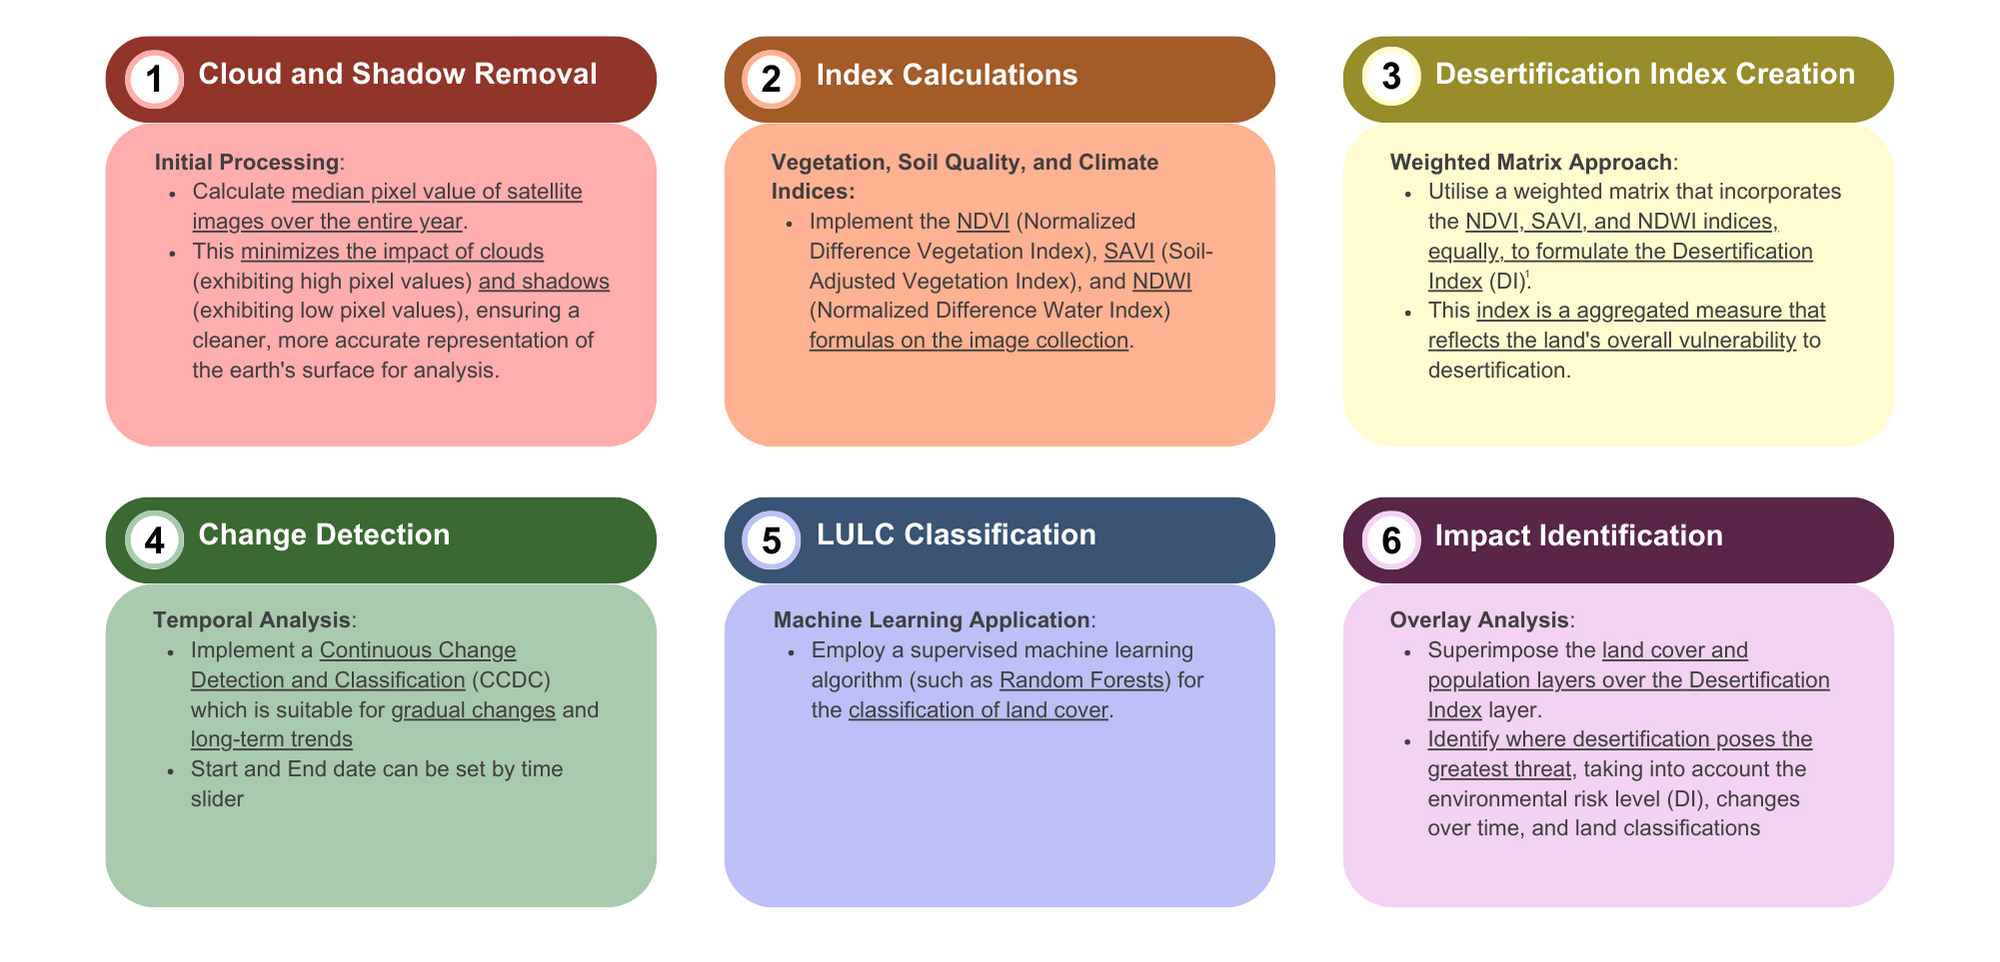
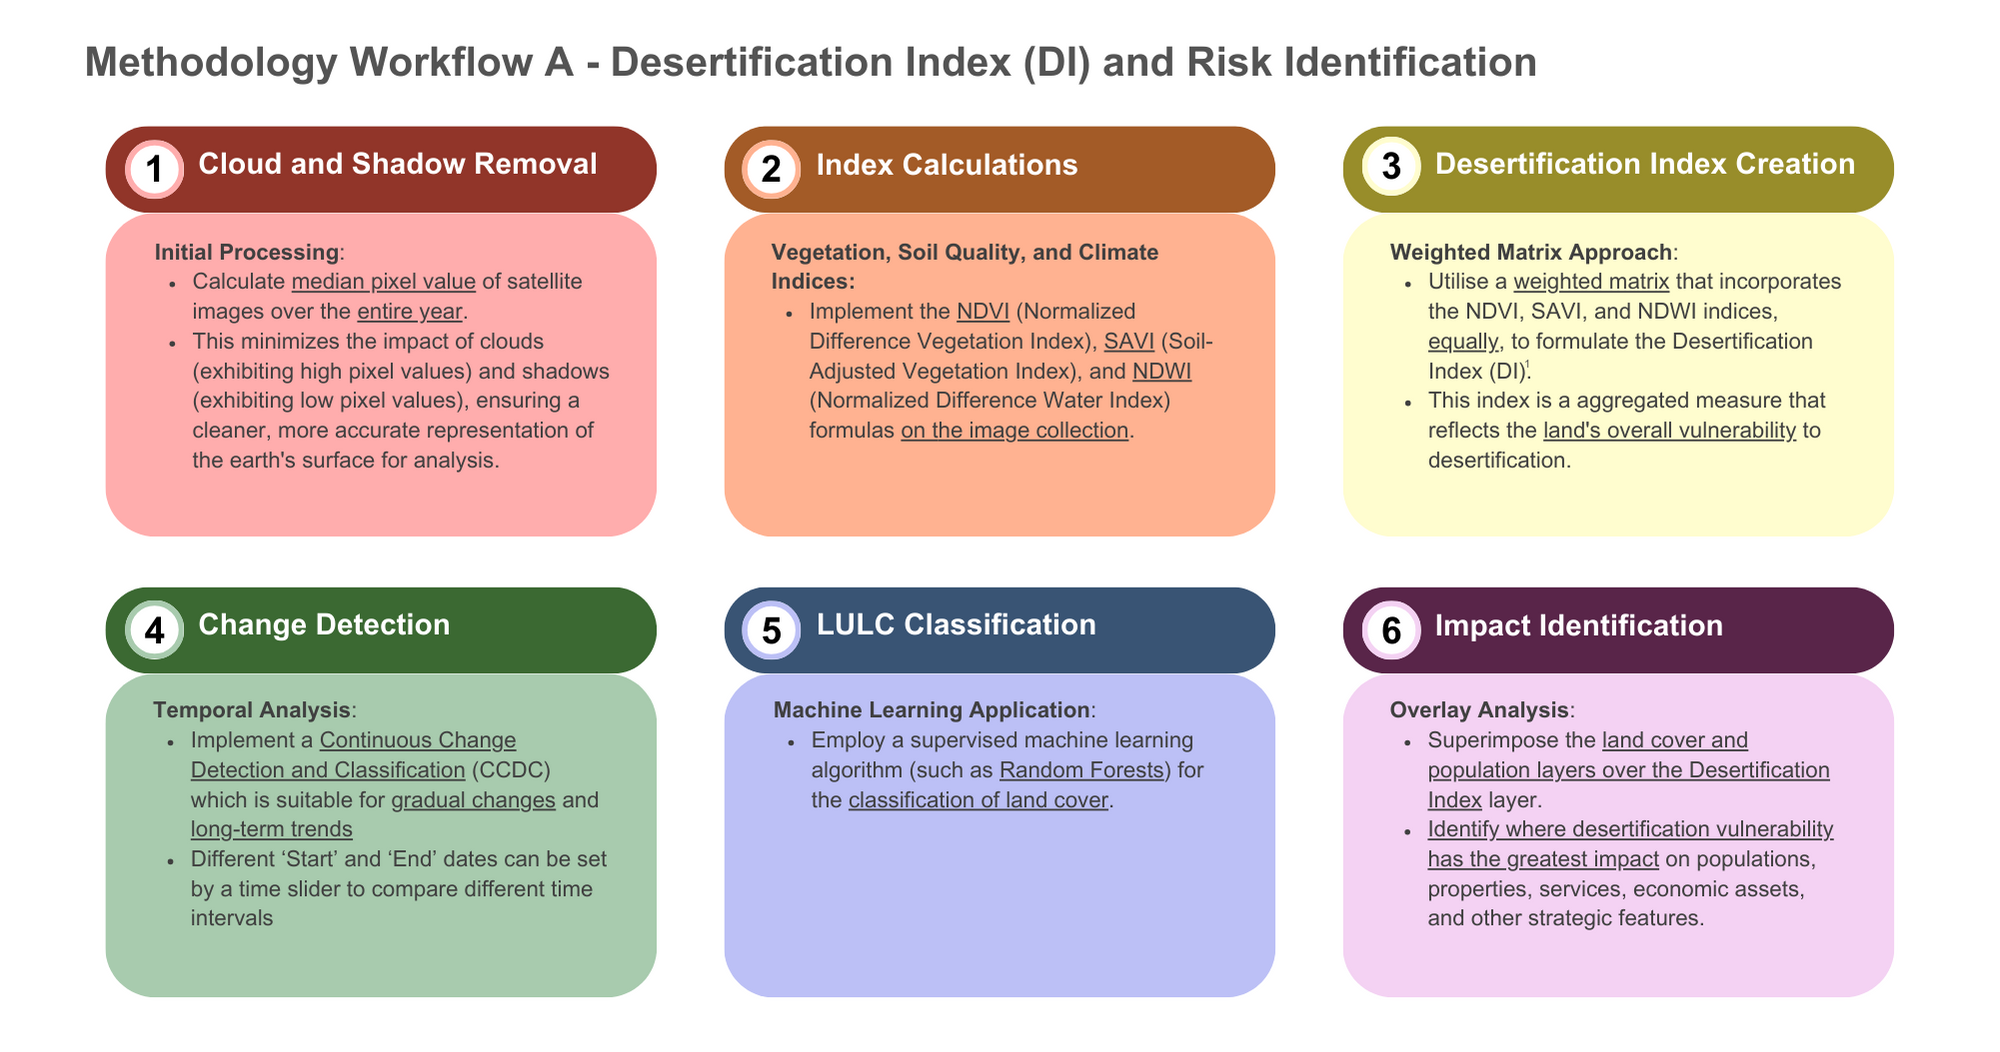
some other changes - new method images

diff --git a/index.html b/index.html
@@ -30,7 +30,7 @@
     <script src="index_files/tile-view-0.2.6/tile-view.js"></script>
     <link href="index_files/panelset-0.3.0/panelset.css" rel="stylesheet" />
     <script src="index_files/panelset-0.3.0/panelset.js"></script>
-    <script type="application/json" id="xaringanExtra-editable-docid">{"id":"bf8f448205b449f399c773d280b4ee60","expires":1}</script>
+    <script type="application/json" id="xaringanExtra-editable-docid">{"id":"b4827e44bb1d4b78b29a2badd1bf14b5","expires":1}</script>
     <script src="index_files/himalaya-1.1.0/himalaya.js"></script>
     <link href="index_files/editable-0.2.6/editable.css" rel="stylesheet" />
     <script src="index_files/editable-0.2.6/editable.js"></script>
@@ -144,12 +144,12 @@ class: center, middle, inverse
 
 
 ---
-# Workflow Methodology A
+# Workflow A - Desertification Index (DI) and Risk Identification
 
 &lt;img src="Images/method_a.png" width="85%" /&gt;
 
 ---
-# Workflow Methodology B
+# Workflow B - Tree Planting Site Identification
 
 &lt;img src="Images/method_b.png" width="85%" /&gt;
 
